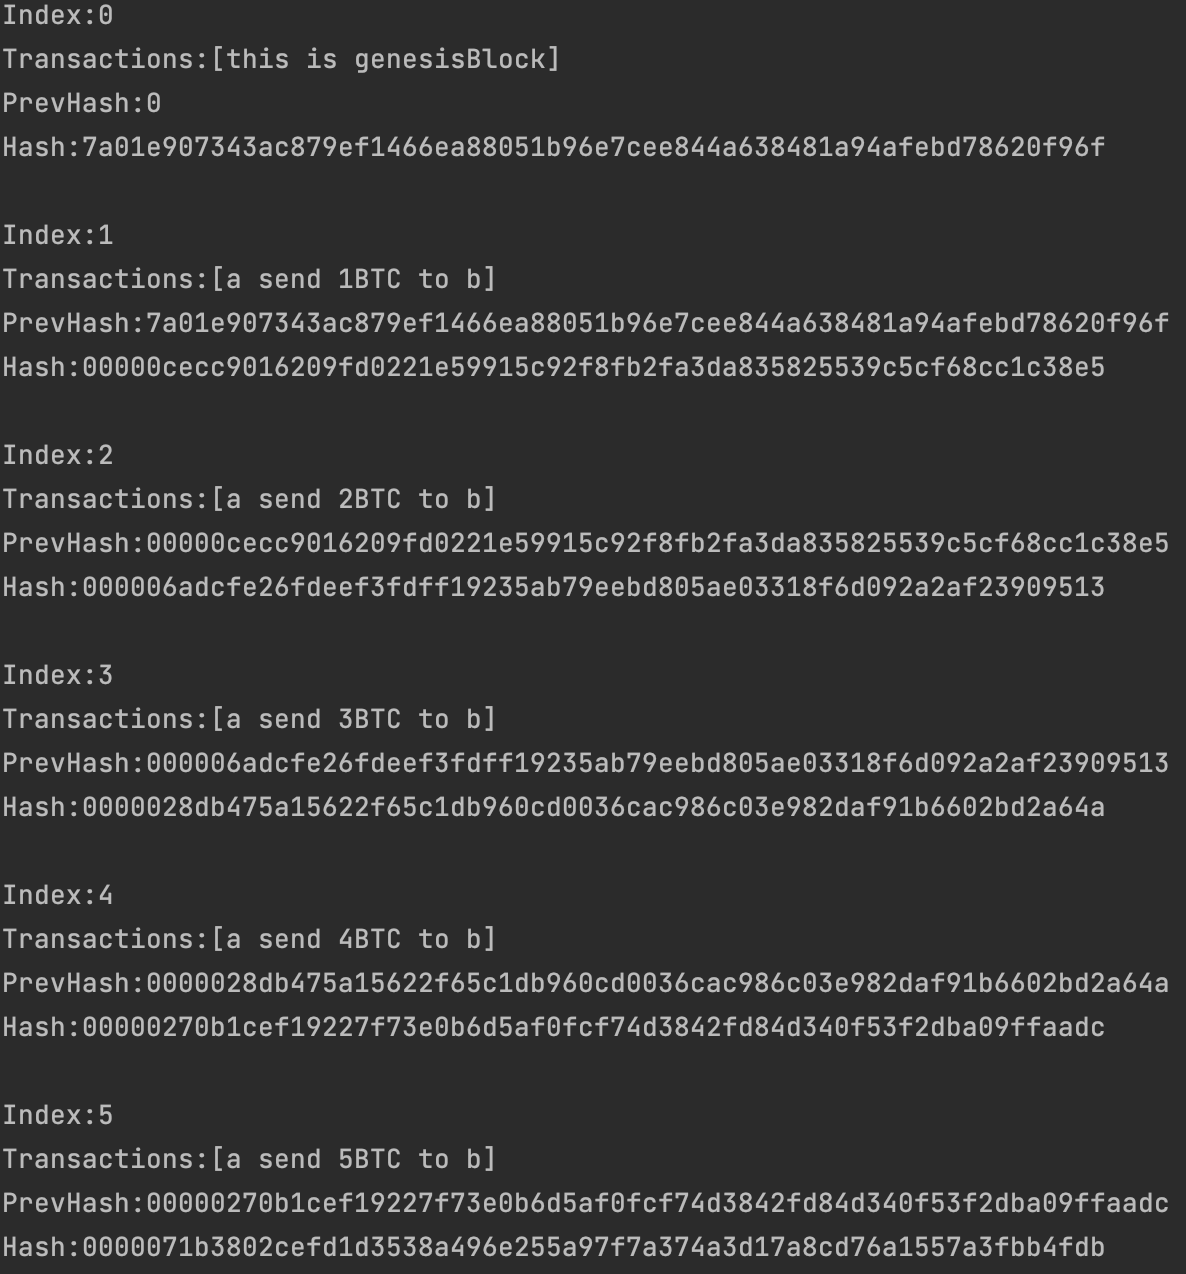
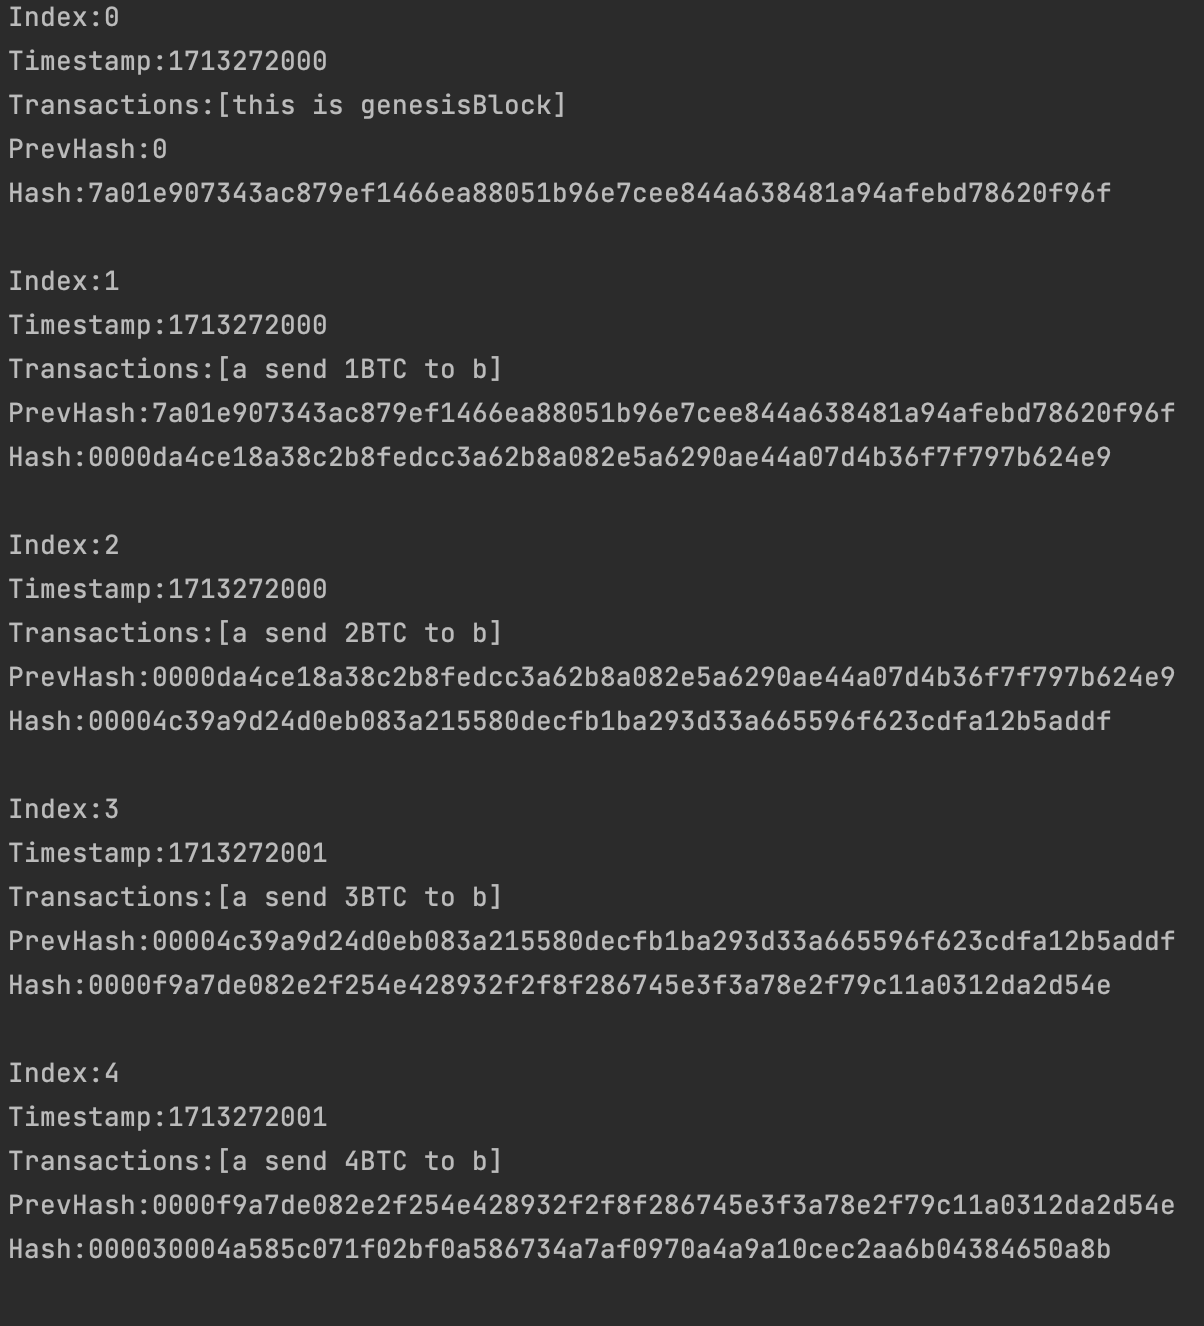
更新难度为4个0开头

Changed region(s): [[0.0, 0.1837, 0.9983, 1.0], [0.0, 0.0, 0.9359, 0.1531], [0.9359, 0.398, 0.9983, 0.4286]]

diff --git a/BlockChainDemo/main.go b/BlockChainDemo/main.go
@@ -80,12 +80,12 @@ func isBlockchainValid(blockchain BlockChain) bool {
 
 // 打印区块信息
 func printBlockchain(block Block) {
-	fmt.Printf("Index:%d\nTransactions:%s\nPrevHash:%s\nHash:%s\n\n", block.Index, block.Transactions, block.PrevHash, block.Hash)
+	fmt.Printf("Index:%d\nTimestamp:%d\nTransactions:%s\nPrevHash:%s\nHash:%s\n\n", block.Index, block.Timestamp, block.Transactions, block.PrevHash, block.Hash)
 }
 
 func main() {
 	//初始化难度
-	difficulty := 5
+	difficulty := 4
 
 	blockchain := BlockChain{}
 	//创世块

diff --git a/BlockChainDemo/README.md b/BlockChainDemo/README.md
@@ -1,3 +1,3 @@
 # 模拟实现最小的区块链原理
-运行结果：
+运行截图：
 ![](img.png)
